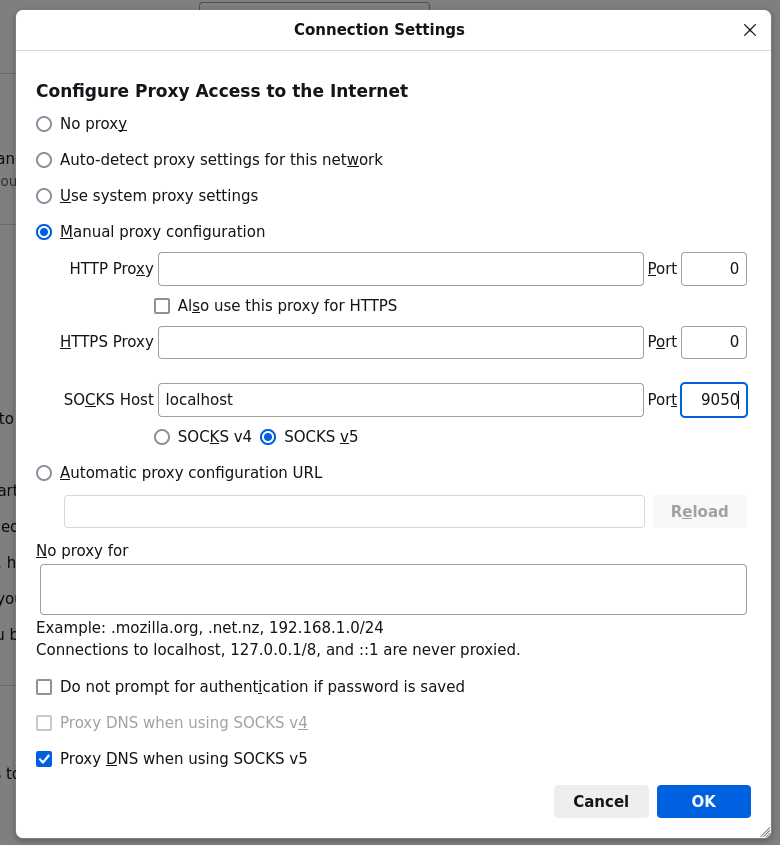
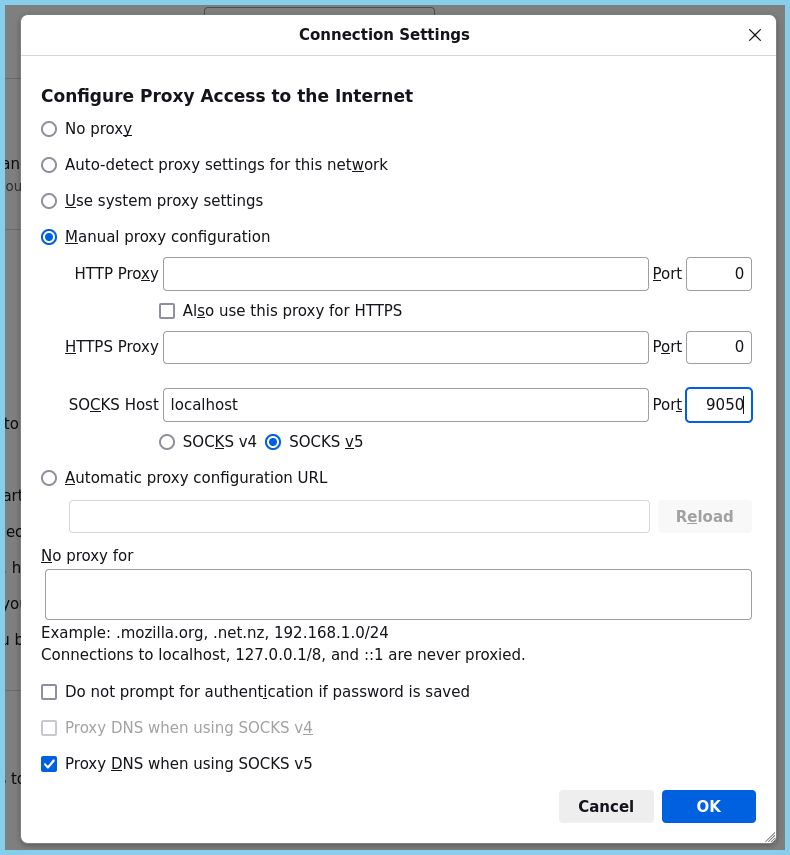
And Here We Go

diff --git a/README.md b/README.md
@@ -284,6 +284,17 @@ obfs4 51.83.252.70:18309 7FA5CCF98172F8E4073ED331FD86406D80E1C95D cert=+F3w/iZJY
 
 
 
+**ImageMagick to add a 5px skyblue border to src/ image**
+
+
+```
+sudo apt install imagemagick
+chmod +x add_border.sh
+./add_border.sh
+```
+
+ 
+ 
 
 
 
